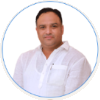
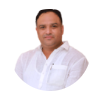
Clean politician portraits to remove offset arcs, replace AI dot pills with clean role titles, and eliminate duplicate party labels

Changed region(s): [[0.0, 0.0, 0.99, 1.0], [0.39, 0.06, 0.54, 0.12], [0.54, 0.09, 0.6, 0.12]]

diff --git a/src/components/political-clients.tsx b/src/components/political-clients.tsx
@@ -7,46 +7,39 @@ import { useEnquiry } from "@/context/enquiry-context";
 
 interface Politician {
   name: string;
-  party: "BJP" | "INC";
-  designation: string;
+  role: string;
   image: string;
 }
 
 const politicians: Politician[] = [
   {
     name: "Umesh Sharma",
-    party: "BJP",
-    designation: "BJP",
+    role: "Senior Leader · BJP",
     image: "/politicians/umesh-sharma.png",
   },
   {
     name: "Bhupinder Lather",
-    party: "INC",
-    designation: "INC",
+    role: "Senior Leader · INC",
     image: "/politicians/bhupinder-lather.png",
   },
   {
     name: "Kawal Singh Dhillon",
-    party: "BJP",
-    designation: "BJP",
+    role: "Senior Leader · BJP",
     image: "/politicians/kawal-singh-dhillon.png",
   },
   {
     name: "Rajiv Mamuram Gondar",
-    party: "INC",
-    designation: "INC",
+    role: "Senior Leader · INC",
     image: "/politicians/rajiv-mamuram-gondar.png",
   },
   {
     name: "Randeep Singh Surjewala",
-    party: "INC",
-    designation: "MP Rajya Sabha",
+    role: "MP Rajya Sabha · INC",
     image: "/politicians/randeep-singh-surjewala.png",
   },
   {
     name: "Shamsher Singh Gogi",
-    party: "INC",
-    designation: "Ex MLA Assandh",
+    role: "Ex MLA Assandh · INC",
     image: "/politicians/shamsher-singh-gogi.png",
   },
 ];
@@ -101,49 +94,29 @@ export default function PoliticalClients() {
           {politicians.map((p) => (
             <StaggerItem key={p.name} className="h-full">
               <div className="group h-full flex flex-col items-center justify-between text-center p-4 sm:p-5 rounded-3xl border border-stone-200/90 bg-[#F8FAFC] transition-all duration-300 hover:-translate-y-1.5 hover:border-accent/50 hover:bg-white hover:shadow-card">
-                {/* Circular Portrait with Luxury Border */}
-                <div className="relative mb-3.5 shrink-0">
-                  <div className="relative h-24 w-24 sm:h-28 sm:w-28 overflow-hidden rounded-full ring-2 ring-accent/30 transition-all duration-300 group-hover:ring-accent group-hover:scale-105 group-hover:shadow-md bg-white">
-                    <Image
-                      src={p.image}
-                      alt={p.name}
-                      width={112}
-                      height={112}
-                      className="h-full w-full object-cover"
-                    />
+                {/* Circular Portrait with Concentric Clean Ring */}
+                <div className="relative mb-4 shrink-0">
+                  <div className="relative h-24 w-24 sm:h-28 sm:w-28 rounded-full p-[3px] border-[1.5px] border-stone-200/90 bg-white shadow-xs transition-all duration-300 group-hover:border-accent group-hover:scale-105 group-hover:shadow-md">
+                    <div className="relative h-full w-full overflow-hidden rounded-full bg-stone-50 flex items-center justify-center">
+                      <Image
+                        src={p.image}
+                        alt={p.name}
+                        width={112}
+                        height={112}
+                        className="h-full w-full object-cover scale-[1.14] transition-transform duration-300 group-hover:scale-[1.18]"
+                      />
+                    </div>
                   </div>
                 </div>
 
-                {/* Bottom Content Container with Fixed Alignment Slots */}
-                <div className="flex flex-col items-center w-full grow justify-end">
-                  {/* Party Emblem / Tag - Fixed Height */}
-                  <div className="h-6 flex items-center justify-center mb-2 shrink-0">
-                    {p.party === "BJP" ? (
-                      <span className="inline-flex items-center gap-1 rounded-full border border-amber-500/40 bg-amber-50 px-2.5 py-0.5 text-[10px] font-bold text-amber-900 shadow-xs">
-                        <span className="h-1.5 w-1.5 rounded-full bg-[#FF9933]" />
-                        BJP
-                      </span>
-                    ) : (
-                      <span className="inline-flex items-center gap-1 rounded-full border border-emerald-500/40 bg-emerald-50 px-2.5 py-0.5 text-[10px] font-bold text-emerald-900 shadow-xs">
-                        <span className="h-1.5 w-1.5 rounded-full bg-[#138808]" />
-                        INC
-                      </span>
-                    )}
-                  </div>
-
-                  {/* Name with fixed height container for 1-line and 2-line names */}
-                  <div className="h-10 flex items-center justify-center w-full px-1">
-                    <h4 className="font-display text-xs sm:text-sm font-bold text-ink leading-tight transition-colors group-hover:text-accent line-clamp-2">
-                      {p.name}
-                    </h4>
-                  </div>
-
-                  {/* Designation / Role with fixed height container */}
-                  <div className="h-5 flex items-center justify-center w-full mt-0.5">
-                    <p className="text-[11px] font-medium text-ink/75 truncate max-w-full">
-                      {p.designation}
-                    </p>
-                  </div>
+                {/* Bottom Content: Name & Real Role (No AI badge, no duplicate party text) */}
+                <div className="flex flex-col items-center w-full grow justify-center text-center">
+                  <h4 className="font-display text-xs sm:text-sm font-bold text-ink leading-snug transition-colors group-hover:text-accent">
+                    {p.name}
+                  </h4>
+                  <p className="mt-1.5 text-[11px] font-semibold text-ink/75">
+                    {p.role}
+                  </p>
                 </div>
               </div>
             </StaggerItem>
